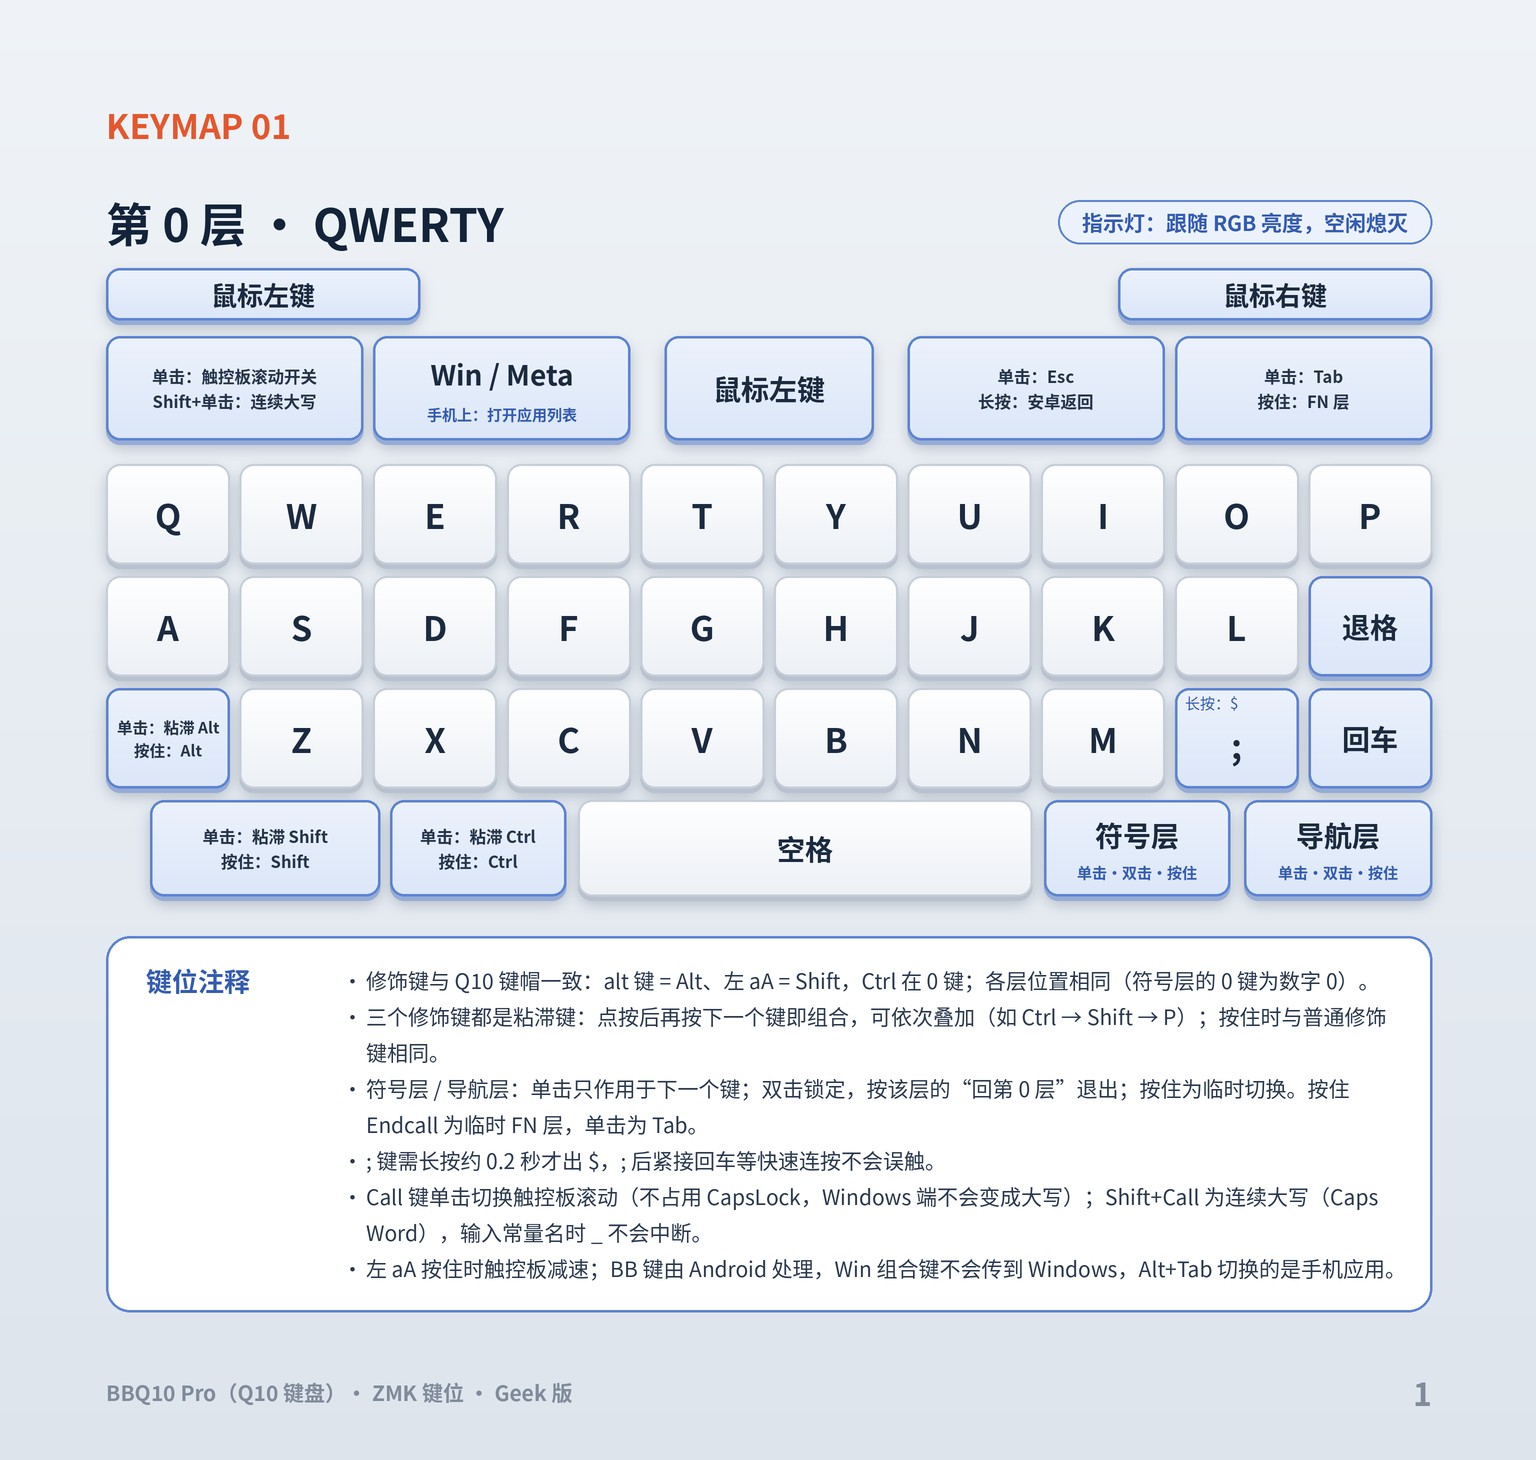
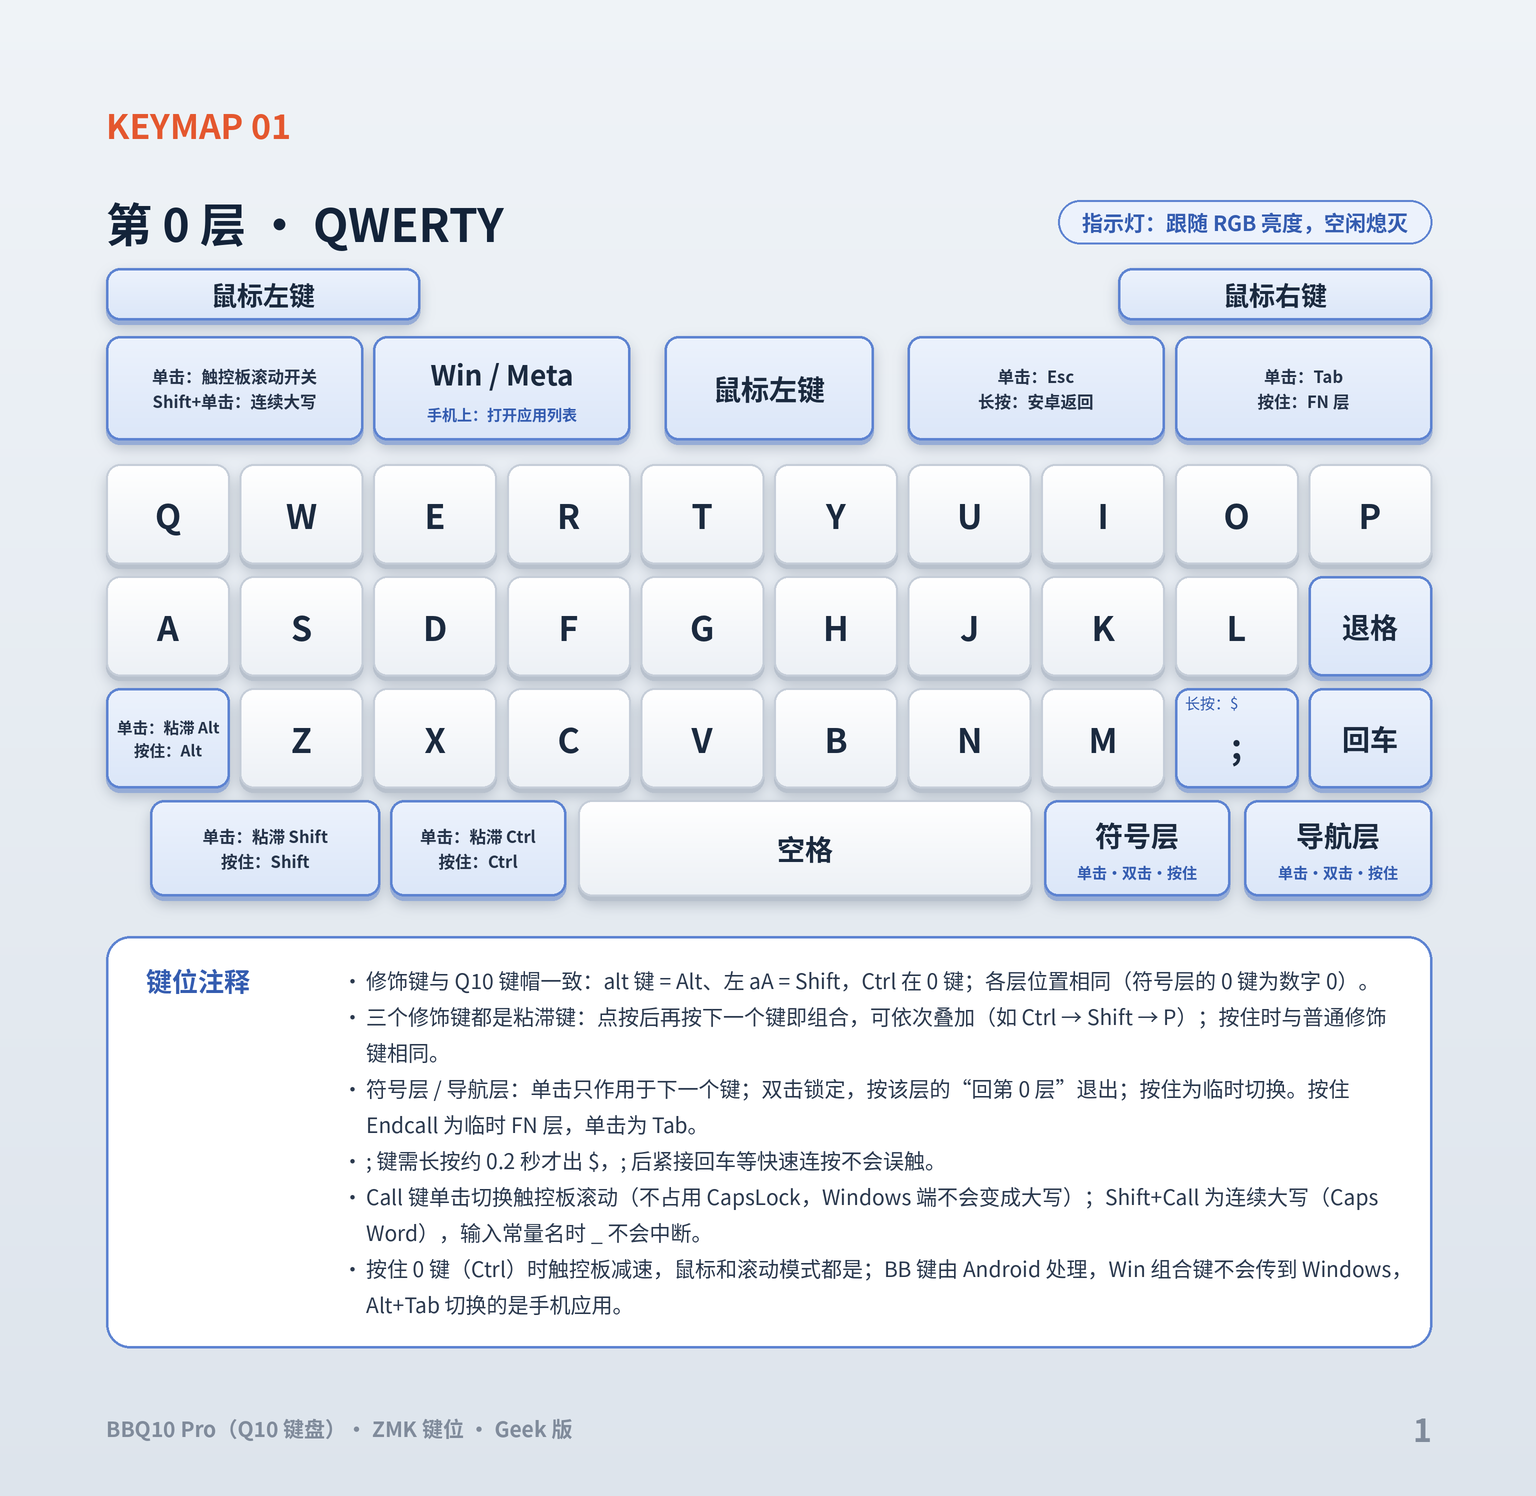
Move trackpad slow mode back to Ctrl
The A320 driver enables slow mode by physical key position. In the stock
keymap position 37 (left aA) was Ctrl, but after the modifier swap that key
became Shift, so holding Shift slowed the trackpad and Ctrl no longer did.

- Use position 38 (the 0 key, Ctrl on layers 0, 2 and 3) via a named
  SLOW_KEY_POSITION constant; applies to both mouse and scroll mode
- Shift + scroll now gives normal-speed horizontal scrolling; Ctrl + scroll
  (zoom in most Windows apps) is half speed for finer control
- Update the layer 0 diagram note

Changed region(s): [[0.0625, 0.1233, 0.9375, 0.9863], [0.0625, 0.0616, 0.1875, 0.0925]]

diff --git a/config/boards/arm/zitaotech_q10/custom_driver/a320.c b/config/boards/arm/zitaotech_q10/custom_driver/a320.c
@@ -32,6 +32,9 @@ LOG_MODULE_REGISTER(a320, CONFIG_A320_LOG_LEVEL);
 #define SHIFT_ARROW_DEBOUNCE_MS 50 // 
 #define SHIFT_ARROW_RELEASE_MS 20  // 
 
+/* 按住这个键时触控板减速（鼠标、滚动模式都是）：0 键 = Ctrl，符号层上为数字 0 */
+#define SLOW_KEY_POSITION 38
+
 #ifndef CONFIG_A320_POLL_INTERVAL_MS
 #define CONFIG_A320_POLL_INTERVAL_MS 2
 #endif
@@ -121,7 +124,7 @@ static int key_listener_cb(const zmk_event_t *eh) {
     if (!ev)
         return 0;
 
-    if (ev->position == 37) {
+    if (ev->position == SLOW_KEY_POSITION) {
         ctrl_pressed = ev->state;
     }
 
